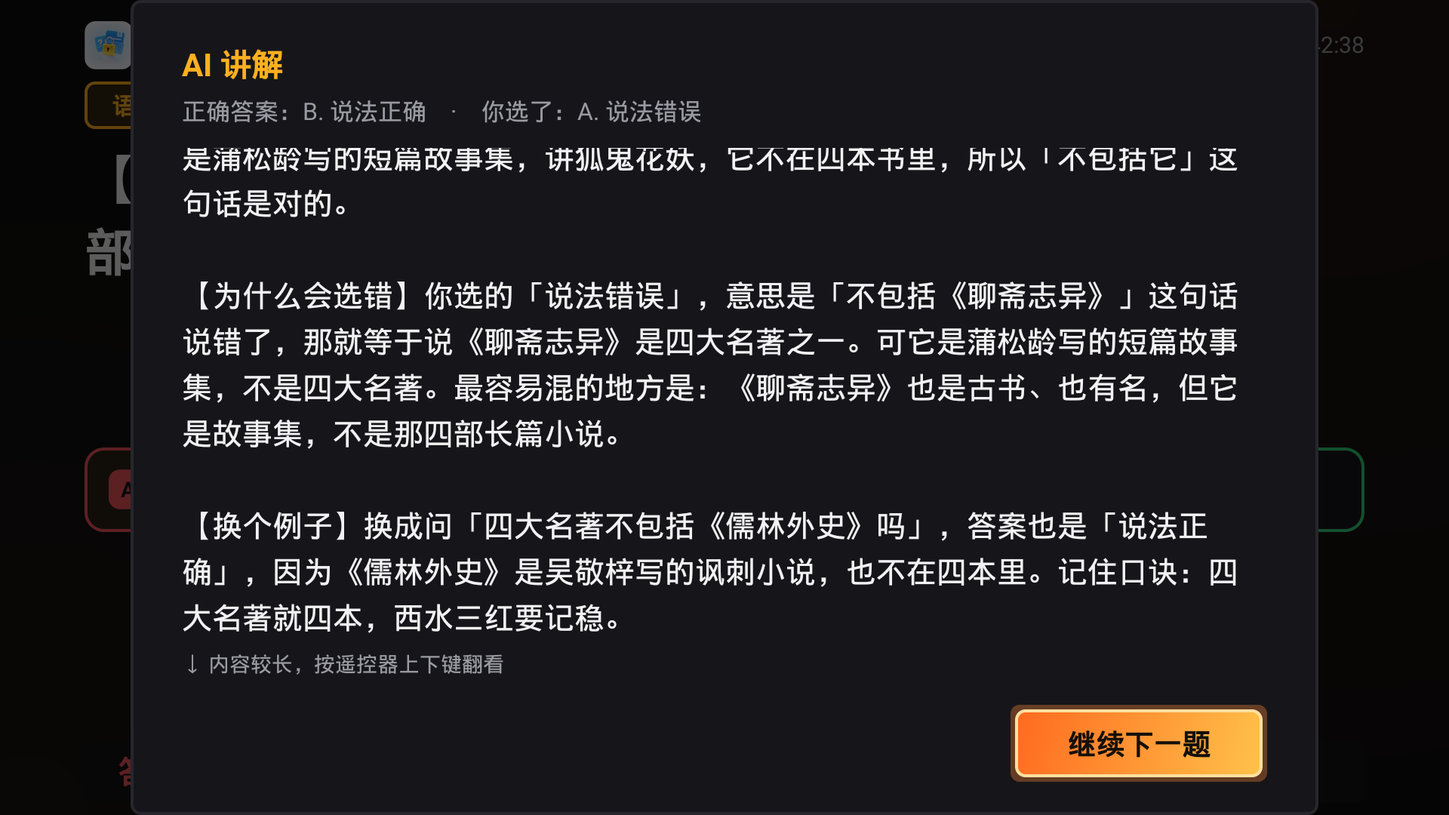
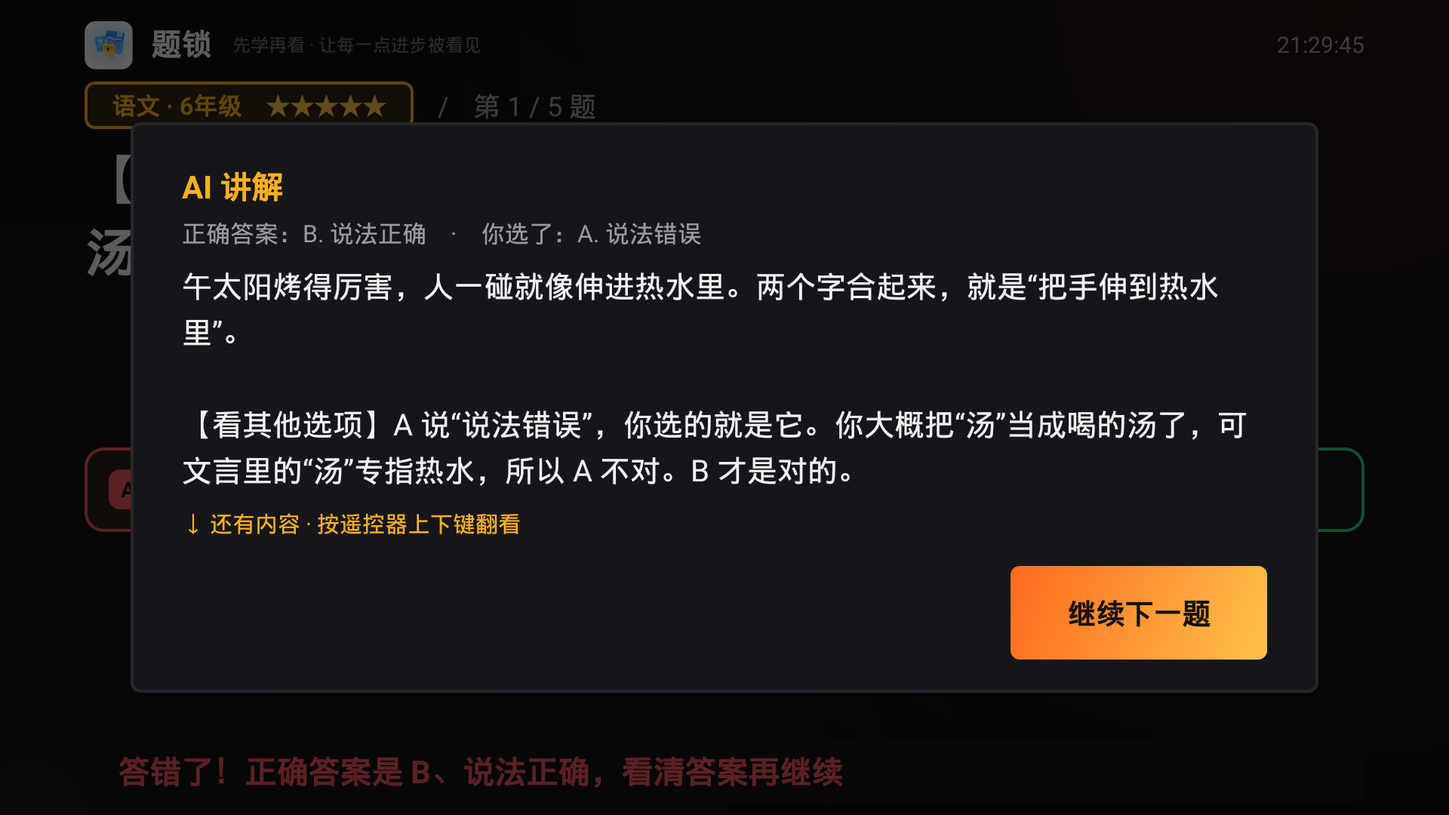
v1.10.5 AI 讲解改六段结构、科任老师角色与固定高度面板

diff --git a/app/src/main/assets/admin.html b/app/src/main/assets/admin.html
@@ -1098,7 +1098,7 @@
       <div class="panel">
         <h2>AI 错题讲解</h2>
         <p class="desc">
-          答错后电视右下角出现「AI 讲解 · 5」并倒计时 5 秒：按遥控器 OK 就看讲解，看完点「继续下一题」；不按则自动进下一组。
+          答错后电视右下角出现「AI 讲解 · 5」并倒计时 5 秒：按遥控器 OK 就看讲解，看完点「继续下一题」；不按则自动进下一组。AI 以<b>对应学科的科任老师</b>身份、用本学科的课堂思路讲题，不是通用助手腔。
           <b>开启后，题目、四个选项和孩子的错误选项会发往你填写的大模型服务</b>，因此默认关闭，Key 只存在电视本机。
         </p>
         <div class="body">
@@ -1121,10 +1121,10 @@
             </div>
             <div class="f"><div class="lbl"><b>请求超时</b><small>模型太慢会自动放弃，答题流程不会卡住</small></div>
               <div class="ctl"><div class="stepper" data-key="aiTimeoutSeconds" data-min="5" data-max="60"></div><span class="unit">秒</span></div></div>
-            <div class="f"><div class="lbl"><b>讲解详细程度</b><small>标准：先说答案 → 逐词逐句拆开讲 → 点破错因 → 换个新例子，约 230 字分 4 段；详细再加一道小练习（正文可按上下键翻看）；简明只讲结论和错因。改档后建议清空缓存，否则同一道错题仍读旧讲解</small></div>
+            <div class="f"><div class="lbl"><b>讲解详细程度</b><small>六段结构：结论（直接给结果，不复述题目）→ 拆解（英语逐词、数学分步、语文字词）→ 逐个分析其余选项 → 举例（数笔画、认首字母等简单识记题自动跳过）→ 易错点（单复数、时态、介词、进位、形近字等）→ 举一反三。面板固定占屏高 70%、上下留白，按遥控器上下键翻看。改档后建议清空缓存，否则同一道错题仍读旧讲解</small></div>
               <div class="ctl"><select id="aiDetail">
-                <option value="1">简明 · 约 80 字</option><option value="2" selected>标准 · 约 200 字</option>
-                <option value="3">详细 · 约 300 字</option>
+                <option value="1">简明 · 约 150 字</option><option value="2" selected>标准 · 约 320 字</option>
+                <option value="3">详细 · 约 450 字</option>
               </select></div></div>
             <div class="f"><div class="lbl"><b>连通与缓存</b><small id="aiTestHint">填完先点「测试连通」，通了再去电视上答错一题看效果。同一道题第二次直接读本机缓存，不再请求模型。</small></div>
               <div class="ctl"><button id="btnAiTest" class="mini" type="button" style="max-width:none">测试连通</button>

diff --git a/app/src/main/java/com/family/studytv/AiExplain.java b/app/src/main/java/com/family/studytv/AiExplain.java
@@ -53,8 +53,11 @@ public final class AiExplain {
     public static final int DETAIL_DEEP = 3;
 
     private static final String SYS_PROMPT =
-            "你是一位耐心的小学老师，讲题用孩子听得懂的口语，句子短、分步骤、有例子，"
-                    + "会把知识点拆开讲明白，用户要求的每一段都必须写全，不写空泛的夸奖和安慰，"
+            "你是这道题对应学科的科任老师，正在教室里给刚答错的学生当面讲评。"
+                    + "全程用本学科老师的专业视角和课堂口吻，像在黑板前一步步把道理讲明白；"
+                    + "不要通用助手腔，不写「作为 AI」「我来帮你分析」「希望对你有帮助」。"
+                    + "讲题用孩子听得懂的口语，句子短、分步骤、有例子，会把知识点拆开讲明白，"
+                    + "不把题目原文复述一遍，要求的每一段都写全，不写空泛的夸奖和安慰，"
                     + "不使用「本题考查」这类书面语。";
 
     private AiExplain() {
@@ -94,7 +97,7 @@ public final class AiExplain {
     /**
      * 组 prompt：只给模型「题目 / 四个选项 / 正确答案 / 孩子选了哪个」，
      * 其余判断都交给模型 —— 题库里没有解析原文，硬凑反而会编。
-     * v1.10.4 起按「讲解详细程度」生成分层讲解，默认标准档。
+     * v1.10.5 起按六段结构生成分层讲解，默认标准档；简单识记题可跳过举例段。
      */
     public static String buildPrompt(String subject, int grade, String question,
                                      List<String> options, int answerIdx, int chosenIdx) {
@@ -110,7 +113,19 @@ public final class AiExplain {
                 && chosenIdx != answerIdx;
         StringBuilder sb = new StringBuilder();
         String who = grade > 0 ? "小学" + grade + "年级" : "小学";
-        sb.append("你是").append(who).append(subject).append("老师，正在给一个刚答错题的孩子讲这道题。\n\n");
+        String subj = subject == null ? "" : subject;
+        String view = subj.contains("英语")
+                ? "先带学生认单词、再拼句子、最后点语法（时态、单复数、介词、人称）"
+                : subj.contains("数学")
+                ? "先说清数量关系，再一步一步算给看，最后落到运算里的坑"
+                : "先讲字音字形字义，再讲句子或诗句的意思，最后落到作者、朝代和写法";
+        String pit = subj.contains("英语") ? "英语题盯单复数、时态、介词、人称、冠词"
+                : subj.contains("数学") ? "数学题盯进位退位、单位、运算顺序、符号"
+                : "语文题盯多音字、形近字、笔画笔顺、作者朝代";
+        sb.append("你是").append(who).append(subj).append("老师，也就是这个班的")
+                .append(subj).append("科任老师，正在教室里给刚答错这道题的学生当面讲评。\n");
+        sb.append("请用").append(subj).append("老师上课的口吻，按本学科的思路讲：")
+                .append(view).append("。不要写成通用 AI 助手，不要自称 AI。\n\n");
         sb.append("题目：").append(question).append("\n");
         if (options != null) {
             for (int i = 0; i < options.size(); i++) {
@@ -125,37 +140,38 @@ public final class AiExplain {
             sb.append("孩子选了：").append(letter(chosenIdx)).append(". ")
                     .append(options.get(chosenIdx)).append("\n");
         }
-        sb.append("\n请按下面的步骤讲，用孩子听得懂的口语，句子要短，每一步单独一段：\n");
-        sb.append("【先看答案】一句话说清正确答案到底是什么意思，别绕弯、别复述题目。\n");
-        if (lv >= DETAIL_STANDARD) {
-            sb.append("【拆开看】把题里的关键词、数字、句型一个一个讲明白：英语题逐词说意思")
-                    .append("并讲清句子怎么拼，数学题说清每一步怎么算，语文题说清字或词为什么这样用。\n");
-        }
-        // 错因放在举例之前：万一模型写满字数收尾，最该讲的这一段也一定在
+        sb.append("\n请按下面六段讲，全程保持科任老师的身份和课堂口吻，句子要短，每段单独一段：\n");
+        sb.append("【结论】直接说正确答案是什么、是什么意思，一句话给结果；")
+                .append("禁止把题目复述一遍，禁止写「这道题问的是…」。\n");
+        sb.append("【拆解】把知识点一个一个拆开讲：")
+                .append("英语题逐个词说意思（如 He is a boy. → He 他、is 是、a 一个、boy 男孩，")
+                .append("合起来「他是个男孩」）并讲清句子怎么拼；")
+                .append("数学题说清每个数字的含义和每一步怎么算；")
+                .append("语文题说清字的音形义、笔画笔顺或诗句字词为什么这么用。\n");
+        sb.append("【看其他选项】除正确答案外，把其余每个选项按字母逐个点名，")
+                .append("说清它是什么意思、对应哪句英文／哪个算法／哪个作者，为什么不对；");
         if (wrong) {
-            sb.append("【为什么会选错】必须点名孩子选的那一项「")
-                    .append(options.get(chosenIdx))
-                    .append("」，说清它其实是什么意思、对应哪个作者／哪句英文／哪个算法，")
-                    .append("再点出和正确答案最容易混在哪，不要只说「这个不对」。\n");
+            sb.append("其中孩子选的「").append(options.get(chosenIdx))
+                    .append("」要重点讲，说清最容易混在哪。\n");
         } else {
-            sb.append("【容易混的地方】说清其他选项分别是什么意思、最容易和正确答案混在哪。\n");
+            sb.append("点出最容易和正确答案混的那个。\n");
         }
-        if (lv >= DETAIL_STANDARD) {
-            sb.append("【换个例子】换掉数字或词，举一个同类型的新例子，带着孩子一起说出答案，别抄原题；")
-                    .append("结尾给一句好记的小口诀或反问。\n");
-        }
-        if (lv == DETAIL_DEEP) {
-            sb.append("【再练一次】再出一个更小的问题让孩子自己想，紧接着给出答案。\n");
-        }
-        sb.append("上面每一段都必须写出来，不许合并、不许省略，每段都以【】里的标签开头，")
-                .append("不要另写标题，不要复述题目原文，不要写「小朋友」「别着急」这类空泛安慰。\n");
+        sb.append("【举个例子】换掉数字或词，举一个同类型的例子，带着孩子一起说出答案，别抄原题。")
+                .append("但数笔画、认首字母、背作者朝代这类一眼看出答案的简单识记题，")
+                .append("这一段整段省略（连标签都不写），其余五段照写。\n");
+        sb.append("【易错点】点出这道题真正的坑，").append(pit)
+                .append("；最后给一句能记住的判断口诀。\n");
+        sb.append("【举一反三】给一条下次也能用的规律，再出一个变式小问题让孩子自己想，")
+                .append("紧接着给出答案；这一段是让孩子自己练，不要重复【举个例子】那道题。\n");
+        sb.append("除【举个例子】在简单题可省略外，其余每一段都必须写出来，不许合并、不许省略；")
+                .append("每段都以【】里的标签开头，不要另写标题，")
+                .append("不要写「小朋友」「别着急」这类空泛安慰。\n");
         if (lv == DETAIL_BRIEF) {
-            sb.append("只写【先看答案】和").append(wrong ? "【为什么会选错】" : "【容易混的地方】")
-                    .append("两段，总字数 60–90 字。");
+            sb.append("每段一两句话，总字数 130–170 字。");
         } else if (lv == DETAIL_DEEP) {
-            sb.append("总字数 280–360 字。");
+            sb.append("每段讲透，总字数 400–500 字。");
         } else {
-            sb.append("总字数 200–260 字。");
+            sb.append("总字数 280–360 字。");
         }
         return sb.toString();
     }
@@ -173,13 +189,13 @@ public final class AiExplain {
     /** 中文一字约 1～1.5 token，按档位留足余量，别让讲解被 max_tokens 腰斩 */
     static int maxTokens(int detail) {
         int lv = detailLevelValue(detail);
-        return lv == DETAIL_BRIEF ? 320 : (lv == DETAIL_DEEP ? 1300 : 900);
+        return lv == DETAIL_BRIEF ? 500 : (lv == DETAIL_DEEP ? 1800 : 1300);
     }
 
     /** 面板兜底截断长度（正文可滚动，这里只挡模型跑飞） */
     static int textLimit(int detail) {
         int lv = detailLevelValue(detail);
-        return lv == DETAIL_BRIEF ? 160 : (lv == DETAIL_DEEP ? 800 : 520);
+        return lv == DETAIL_BRIEF ? 280 : (lv == DETAIL_DEEP ? 1000 : 620);
     }
 
     static String letter(int i) {

diff --git a/app/src/test/java/com/family/studytv/AiExplainTest.java b/app/src/test/java/com/family/studytv/AiExplainTest.java
@@ -155,17 +155,27 @@ public class AiExplainTest {
         String p = AiExplain.buildPrompt("数学", 3, "12 × 4 = ?",
                 opts("44", "48", "52", "56"), 1, 0);
         assertTrue("要有年级与科目", p.contains("3年级数学"));
+        assertTrue("要以科任老师身份讲", p.contains("数学科任老师"));
+        assertTrue("数学课按数量关系→分步演算讲", p.contains("数量关系"));
+        assertTrue("不能写成通用 AI 助手", p.contains("不要写成通用 AI 助手"));
         assertTrue("要有题干", p.contains("12 × 4 = ?"));
         assertTrue("正确答案要标出来", p.contains("正确答案：B. 48"));
         assertTrue("必须告诉模型孩子选了什么", p.contains("孩子选了：A. 44"));
-        assertTrue("要按步骤拆开讲，不能只给一句翻译", p.contains("【拆开看】"));
-        assertTrue("要举同类型的新例子", p.contains("【换个例子】"));
-        assertTrue("要点破错误选项", p.contains("【为什么会选错】"));
-        assertTrue("标准档要有字数区间", p.contains("200–260 字"));
-        assertTrue("四段一段都不能少", p.contains("每一段都必须写出来"));
+        assertTrue("结论段不许复述题目", p.contains("禁止把题目复述一遍"));
+        assertTrue("要逐词拆开讲", p.contains("【拆解】"));
+        assertTrue("要逐个分析其余选项", p.contains("【看其他选项】"));
+        assertTrue("要举例", p.contains("【举个例子】"));
+        assertTrue("要讲易错点", p.contains("【易错点】"));
+        assertTrue("要举一反三", p.contains("【举一反三】"));
+        assertTrue("数学题要盯进位退位", p.contains("进位退位"));
         assertTrue("错因段要点名孩子选的那个选项", p.contains("「44」"));
-        assertTrue("错因必须排在举例前面，防止模型写满字数漏掉",
-                p.indexOf("【为什么会选错】") < p.indexOf("【换个例子】"));
+        assertTrue("标准档要有字数区间", p.contains("280–360 字"));
+        assertTrue("除举例外六段一段都不能少", p.contains("每一段都必须写出来"));
+        assertTrue("段序：结论在最前", p.indexOf("【结论】") < p.indexOf("【拆解】"));
+        assertTrue("段序：拆解在其他选项之前",
+                p.indexOf("【拆解】") < p.indexOf("【看其他选项】"));
+        assertTrue("段序：易错点在举一反三之前",
+                p.indexOf("【易错点】") < p.indexOf("【举一反三】"));
     }
 
     @Test
@@ -193,31 +203,67 @@ public class AiExplainTest {
     }
 
     @Test
-    public void 简明档只讲结论和错因() {
+    public void 简明档六段结构不打折只是更短() {
         String p = AiExplain.buildPrompt("英语", 1, "She is eighteen. 的中文意思是？",
                 opts("喝点果汁吧", "她十八岁了"), 1, 0, AiExplain.DETAIL_BRIEF);
-        assertTrue(p.contains("【先看答案】"));
-        assertTrue(p.contains("【为什么会选错】"));
-        assertFalse("简明档不要拆词举例", p.contains("【拆开看】"));
-        assertFalse(p.contains("【换个例子】"));
-        assertTrue(p.contains("60–90 字"));
+        String[] tags = {"【结论】", "【拆解】", "【看其他选项】", "【举个例子】",
+                "【易错点】", "【举一反三】"};
+        for (String t : tags) {
+            assertTrue("简明档也要有 " + t, p.contains(t));
+        }
+        assertTrue(p.contains("130–170 字"));
         assertTrue(p.contains("「喝点果汁吧」"));
+        assertTrue("英语题要盯时态单复数", p.contains("时态"));
     }
 
     @Test
-    public void 详细档多一道小练习且字数更长() {
+    public void 详细档字数更长() {
         String p = AiExplain.buildPrompt("数学", 2, "8 ÷ 2 = ?",
                 opts("3", "4"), 1, 0, AiExplain.DETAIL_DEEP);
-        assertTrue(p.contains("【再练一次】"));
-        assertTrue(p.contains("280–360 字"));
+        assertTrue(p.contains("400–500 字"));
+        assertTrue(p.contains("【举一反三】"));
     }
 
     @Test
-    public void 选对时不用为什么会选错这个标签() {
+    public void 选对时看其他选项不点名孩子选项() {
         String p = AiExplain.buildPrompt("语文", 2, "「明」的部首是什么？",
                 opts("日", "月"), 0, 0);
-        assertTrue(p.contains("【容易混的地方】"));
-        assertFalse(p.contains("【为什么会选错】"));
+        assertTrue(p.contains("【看其他选项】"));
+        assertFalse(p.contains("孩子选了"));
+        assertFalse(p.contains("要重点讲"));
+    }
+
+    @Test
+    public void 简单识记题允许整段跳过举例() {
+        String p = AiExplain.buildPrompt("语文", 1, "「木」字有几画？",
+                opts("3", "4"), 1, 0);
+        assertTrue(p.contains("数笔画"));
+        assertTrue(p.contains("认首字母"));
+        assertTrue(p.contains("整段省略"));
+        assertTrue(p.contains("其余五段照写"));
+    }
+
+    @Test
+    public void 英语题易错点按学科给提示() {
+        String p = AiExplain.buildPrompt("英语", 3, "He ___ a boy.",
+                opts("is", "are"), 0, 1);
+        assertTrue(p.contains("单复数"));
+        assertTrue(p.contains("介词"));
+        assertTrue(p.contains("He is a boy."));
+        assertTrue("英语课按认单词→拼句子→语法讲", p.contains("先带学生认单词"));
+        assertTrue(p.contains("不要自称 AI"));
+        assertFalse("英语题不该给数学的进位提示", p.contains("进位退位"));
+    }
+
+    @Test
+    public void 以对应学科科任老师身份讲题() {
+        String p = AiExplain.buildPrompt("语文", 0, "「春眠不觉晓」的作者是谁？",
+                opts("孟浩然", "李白"), 0, 1);
+        assertTrue(p.contains("小学语文老师"));
+        assertTrue(p.contains("语文科任老师"));
+        assertTrue("语文课按字词→句意→作者朝代讲", p.contains("先讲字音字形字义"));
+        assertTrue(p.contains("正在教室里"));
+        assertFalse(p.contains("0年级"));
     }
 
     @Test
@@ -230,9 +276,9 @@ public class AiExplainTest {
 
     @Test
     public void 按档位放大token与截断上限() throws Exception {
-        assertEquals(320, AiExplain.maxTokens(AiExplain.DETAIL_BRIEF));
-        assertEquals(900, AiExplain.maxTokens(AiExplain.DETAIL_STANDARD));
-        assertEquals(1300, AiExplain.maxTokens(AiExplain.DETAIL_DEEP));
+        assertEquals(500, AiExplain.maxTokens(AiExplain.DETAIL_BRIEF));
+        assertEquals(1300, AiExplain.maxTokens(AiExplain.DETAIL_STANDARD));
+        assertEquals(1800, AiExplain.maxTokens(AiExplain.DETAIL_DEEP));
         assertTrue("详细档不能被标准档的长度腰斩",
                 AiExplain.textLimit(AiExplain.DETAIL_DEEP) > AiExplain.textLimit(AiExplain.DETAIL_STANDARD));
         assertEquals(AiExplain.DETAIL_DEEP,
@@ -259,12 +305,12 @@ public class AiExplainTest {
     @Test
     public void 超长讲解按档位截断() {
         StringBuilder sb = new StringBuilder();
-        for (int i = 0; i < 1000; i++) {
+        for (int i = 0; i < 1500; i++) {
             sb.append('讲');
         }
-        assertEquals(161, AiExplain.clip(sb.toString(), AiExplain.DETAIL_BRIEF).length());
-        assertEquals(521, AiExplain.clip(sb.toString()).length());
-        assertEquals(801, AiExplain.clip(sb.toString(), AiExplain.DETAIL_DEEP).length());
+        assertEquals(281, AiExplain.clip(sb.toString(), AiExplain.DETAIL_BRIEF).length());
+        assertEquals(621, AiExplain.clip(sb.toString()).length());
+        assertEquals(1001, AiExplain.clip(sb.toString(), AiExplain.DETAIL_DEEP).length());
         assertTrue(AiExplain.clip(sb.toString()).endsWith("…"));
         assertEquals("短文本原样返回", "三句话讲完", AiExplain.clip("  三句话讲完  "));
     }

diff --git a/app/src/main/java/com/family/studytv/QuizActivity.java b/app/src/main/java/com/family/studytv/QuizActivity.java
@@ -1204,7 +1204,8 @@ public class QuizActivity extends Activity {
         if (w != null) {
             w.setBackgroundDrawable(new ColorDrawable(Color.TRANSPARENT));
             DisplayMetrics m = getResources().getDisplayMetrics();
-            w.setLayout((int) (m.widthPixels * 0.82f), WindowManager.LayoutParams.WRAP_CONTENT);
+            // 面板固定占屏高 70%、上下各留 15%：讲解再长也只在这块里翻页，不撑满屏幕
+            w.setLayout((int) (m.widthPixels * 0.82f), (int) (m.heightPixels * 0.70f));
             WindowManager.LayoutParams lp = w.getAttributes();
             lp.dimAmount = 0.62f;
             w.setAttributes(lp);
@@ -1330,8 +1331,8 @@ public class QuizActivity extends Activity {
     }
 
     /**
-     * 正文区高度贴着内容走，封顶屏幕的 60%：标准档四段尽量一屏看完，
-     * 详细档超出的部分在面板内滚动，并显示「按上下键翻看」，按钮永远留在屏幕上。
+     * 整块面板高度由窗口固定为屏高 70%，正文区用 weight 吃掉剩余空间；
+     * 这里只判断内容是否溢出，溢出才显示「按上下键翻看」。
      */
     private void fitAiScroll(final ScrollView scroll, final TextView body, final TextView more) {
         if (scroll == null || body == null) {
@@ -1340,19 +1341,12 @@ public class QuizActivity extends Activity {
         body.post(new Runnable() {
             @Override
             public void run() {
-                if (destroyed || body.getHeight() <= 0) {
+                if (destroyed || body.getHeight() <= 0 || scroll.getHeight() <= 0) {
                     return;
                 }
-                DisplayMetrics m = getResources().getDisplayMetrics();
-                int cap = (int) (m.heightPixels * 0.60f);
-                int want = Math.min(cap, Math.max(dpToPx(104), body.getHeight()));
-                android.view.ViewGroup.LayoutParams lp = scroll.getLayoutParams();
-                if (lp.height != want) {
-                    lp.height = want;
-                    scroll.setLayoutParams(lp);
-                }
                 if (more != null) {
-                    more.setVisibility(body.getHeight() > want + 2 ? View.VISIBLE : View.GONE);
+                    more.setVisibility(body.getHeight() > scroll.getHeight() + 2
+                            ? View.VISIBLE : View.GONE);
                 }
             }
         });

diff --git a/README.md b/README.md
@@ -26,7 +26,7 @@
 
 ![题锁 · 答错反馈](docs/screenshots/tv-quiz-feedback.png)
 
-**AI 错题讲解（可选）** — 答错后右下角出现「AI 讲解 · 5」并倒计时，按遥控器 OK 就让 AI 讲这道题；不按就照常换下一题。讲解不是一句「你选错啦」，而是按「先看答案 → 拆开看（英语逐词、数学分步、语文字词）→ 为什么会选错（点名孩子选的那项）→ 换个新例子」四段讲透，默认约 230 字，面板内可上下滚动；系统设置里能切「简明 / 标准 / 详细」三档（详细再加一道小练习）。讲解按题目在本机缓存，同一道题再错一次直接秒出；**换档后点「清空缓存」才会按新档重讲**。需要在「系统设置 → AI 错题讲解」填一个 OpenAI 兼容接口的 Key，**默认关闭**——开启后题目与孩子的错误选项会发到你指定的服务。
+**AI 错题讲解（可选）** — 答错后右下角出现「AI 讲解 · 5」并倒计时，按遥控器 OK 就让 AI 讲这道题；不按就照常换下一题。讲解不是一句「你选错啦」，而是按「结论（直接给结果，不复述题目）→ 拆解（英语逐词、数学分步、语文字词）→ 逐个分析其余选项 → 举例（简单识记题跳过）→ 易错点（单复数/时态/介词/进位/形近字）→ 举一反三」六段讲透，默认约 320 字；面板固定占屏高 70%、上下各留 15% 空白，靠遥控器翻页，不撑满屏幕。系统设置里能切「简明 / 标准 / 详细」三档。讲解按题目在本机缓存，同一道题再错一次直接秒出；**换档后点「清空缓存」才会按新档重讲**。AI 以**对应学科的科任老师**身份讲：语文从字词句到作者朝代、数学从数量关系到分步演算、英语从认单词到拼句子再到语法，用课堂口吻而不是通用助手腔。需要在「系统设置 → AI 错题讲解」填一个 OpenAI 兼容接口的 Key，**默认关闭**——开启后题目与孩子的错误选项会发到你指定的服务。
 
 ![题锁 · AI 讲解](docs/screenshots/tv-ai-entry.png)
 
@@ -233,7 +233,9 @@ adb shell am start -n com.family.studytv/.MainActivity
 
 **AI 错题讲解**：「系统设置 → AI 错题讲解」填 Base URL、模型名、API Key 就能用，DeepSeek / 通义 / 智谱等 OpenAI 兼容接口都通用；带「测试连通」按钮，改完当场知道能不能通。Key 只存电视本机，后台页面拿到的永远是 `sk-****abcd` 这样的打码串。
 
-**讲解详细程度**（v1.10.4）：简明 60–90 字只讲结论和错因；标准 200–260 字分四段（先看答案 / 拆开看 / 为什么会选错 / 换个例子），错因排在举例前面，模型即使写满字数也不会漏掉最该讲的一段；详细 280–360 字再加一道「再练一次」。三档的 `max_tokens` 分别是 320 / 900 / 1300，不会把讲解腰斩在半句；正文封顶屏高 60%，超出的部分显示「按遥控器上下键翻看」，上下键直接翻正文，焦点不会被困在按钮上。v1.10.3 及更早版本把讲解限死在「不超过 90 字」，只会复述答案加一句鼓励，换个题还是不会；现在默认标准档，喜欢短的可以切回简明。
+**讲解结构**（v1.10.5）：system 提示固定「你是这道题对应学科的科任老师，在教室里当面讲评」，每题再按学科给讲课路径（英语认单词→拼句子→语法，数学数量关系→分步演算，语文字词→句意→作者朝代），明确禁止「作为 AI」「我来帮你分析」这类助手腔。六段固定顺序 —— 【结论】直接给答案的意思，不许把题目复述一遍；【拆解】英语题逐个词讲意思（如 `He is a boy.` → He 他 / is 是 / a 一个 / boy 男孩）并说清句子怎么拼，数学题说清每一步怎么算，语文题说清音形义与笔画；【看其他选项】除正确答案外逐个点名说清错在哪，孩子选的那项重点讲；【举个例子】换数字或换词带着做一遍，**数笔画、认首字母、背作者朝代这类一眼看出答案的简单识记题整段跳过**；【易错点】按学科点坑（英语单复数/时态/介词/人称，数学进位退位/单位/运算顺序，语文多音字/形近字/笔顺）并给口诀；【举一反三】给一条可迁移规律 + 变式小问题让孩子先想再给答案。
+
+**讲解详细程度**：简明每段一两句约 150 字，标准约 320 字，详细每段讲透约 450 字；三档 `max_tokens` 分别为 500 / 1300 / 1800，不会把讲解腰斩在半句。整块面板固定为屏高 70%、上下各留 15%，正文区自适应填满剩余空间，超长内容显示「还有内容 · 按遥控器上下键翻看」，上下键直接翻正文，焦点不会被困在「继续下一题」按钮上。v1.10.3 及更早版本把讲解限死在「不超过 90 字」，只会复述答案加一句鼓励，换个题还是不会；现在默认标准档，喜欢短的可以切回简明。
 
 **错题冷却**：一轮 = 屏幕上抽好的一组题，全局轮次序号每抽一组 +1。答错时记下「这道题 + 第几轮」，之后必须满足「当前轮 − 答错轮 ≥ N」才允许再出现——冷却期内既不进优先复习，也不会被随机抽到。轮次与错题都存在偏好里，重启、升级都不清零。
 
